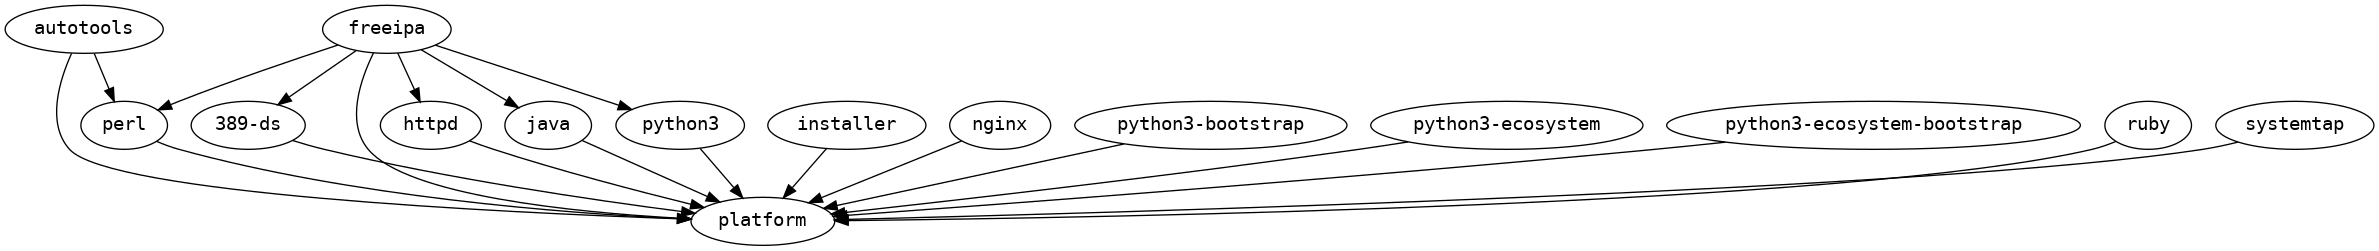
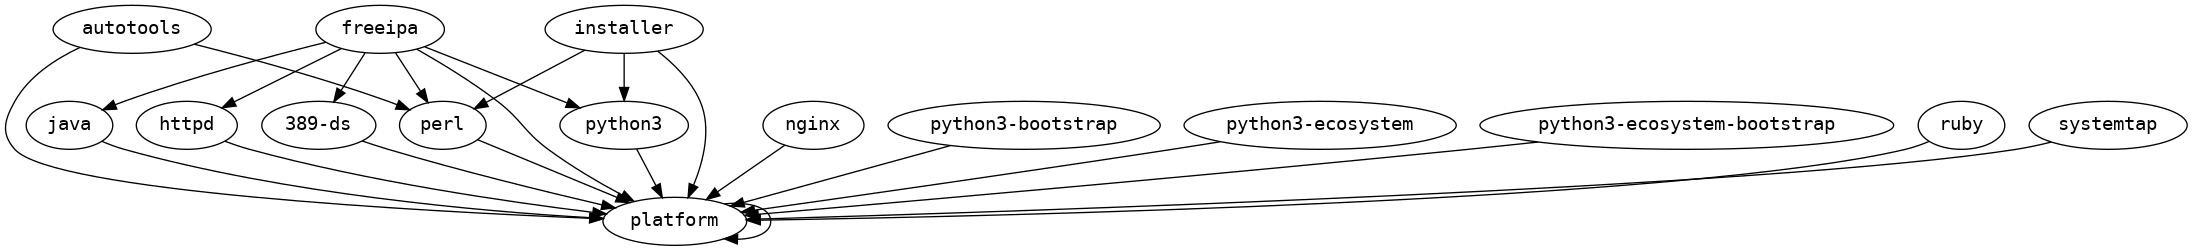
cleanup

diff --git a/modules/freeipa/README.md b/modules/freeipa/README.md
@@ -3,10 +3,11 @@ This is a dependency report for the freeipa module.
 
 An initial [modulemd file](freeipa.yaml) has been generated. It is experimental and probably unusable at this point.
 ## Dependencies
-* [httpd](../httpd)
-* [perl](../perl)
+* [platform](../platform)
 * [389-ds](../389-ds)
 * [java](../java)
+* [httpd](../httpd)
+* [perl](../perl)
 * [python3](../python3)
 ## Binary RPM packages (all arches combined)
 * `apache-commons-cli`

diff --git a/modules/installer/README.md b/modules/installer/README.md
@@ -3,6 +3,9 @@ This is a dependency report for the installer module.
 
 An initial [modulemd file](installer.yaml) has been generated. It is experimental and probably unusable at this point.
 ## Dependencies
+* [platform](../platform)
+* [perl](../perl)
+* [python3](../python3)
 ## Binary RPM packages (all arches combined)
 * `anaconda-core`
 * `anaconda-tui`

diff --git a/modules/python3/README.md b/modules/python3/README.md
@@ -3,6 +3,7 @@ This is a dependency report for the python3 module.
 
 An initial [modulemd file](python3.yaml) has been generated. It is experimental and probably unusable at this point.
 ## Dependencies
+* [platform](../platform)
 ## Binary RPM packages (all arches combined)
 * `aajohan-comfortaa-fonts`
 * `curl-minimal`

diff --git a/modules/systemtap/README.md b/modules/systemtap/README.md
@@ -3,6 +3,7 @@ This is a dependency report for the systemtap module.
 
 An initial [modulemd file](systemtap.yaml) has been generated. It is experimental and probably unusable at this point.
 ## Dependencies
+* [platform](../platform)
 ## Binary RPM packages (all arches combined)
 * `avahi-libs`
 * `boost-atomic`

diff --git a/modules/389-ds/README.md b/modules/389-ds/README.md
@@ -3,6 +3,7 @@ This is a dependency report for the 389-ds module.
 
 An initial [modulemd file](389-ds.yaml) has been generated. It is experimental and probably unusable at this point.
 ## Dependencies
+* [platform](../platform)
 ## Binary RPM packages (all arches combined)
 * `389-ds-base`
 * `389-ds-base-libs`

diff --git a/modules/autotools/README.md b/modules/autotools/README.md
@@ -3,6 +3,7 @@ This is a dependency report for the autotools module.
 
 An initial [modulemd file](autotools.yaml) has been generated. It is experimental and probably unusable at this point.
 ## Dependencies
+* [platform](../platform)
 * [perl](../perl)
 ## Binary RPM packages (all arches combined)
 * `autoconf`

diff --git a/modules/nginx/README.md b/modules/nginx/README.md
@@ -3,6 +3,7 @@ This is a dependency report for the nginx module.
 
 An initial [modulemd file](nginx.yaml) has been generated. It is experimental and probably unusable at this point.
 ## Dependencies
+* [platform](../platform)
 ## Binary RPM packages (all arches combined)
 * `gperftools-libs`
 * `libunwind`

diff --git a/modules/java/README.md b/modules/java/README.md
@@ -3,6 +3,7 @@ This is a dependency report for the java module.
 
 An initial [modulemd file](java.yaml) has been generated. It is experimental and probably unusable at this point.
 ## Dependencies
+* [platform](../platform)
 ## Binary RPM packages (all arches combined)
 * `copy-jdk-configs`
 * `freetype`

diff --git a/modules/perl/README.md b/modules/perl/README.md
@@ -3,6 +3,7 @@ This is a dependency report for the perl module.
 
 An initial [modulemd file](perl.yaml) has been generated. It is experimental and probably unusable at this point.
 ## Dependencies
+* [platform](../platform)
 ## Binary RPM packages (all arches combined)
 * `gdbm-devel`
 * `groff-base`

diff --git a/modules/httpd/README.md b/modules/httpd/README.md
@@ -3,6 +3,7 @@ This is a dependency report for the httpd module.
 
 An initial [modulemd file](httpd.yaml) has been generated. It is experimental and probably unusable at this point.
 ## Dependencies
+* [platform](../platform)
 ## Binary RPM packages (all arches combined)
 * `apr`
 * `apr-util`

diff --git a/modules/ruby/README.md b/modules/ruby/README.md
@@ -3,6 +3,7 @@ This is a dependency report for the ruby module.
 
 An initial [modulemd file](ruby.yaml) has been generated. It is experimental and probably unusable at this point.
 ## Dependencies
+* [platform](../platform)
 ## Binary RPM packages (all arches combined)
 * `libyaml`
 * `ruby`
